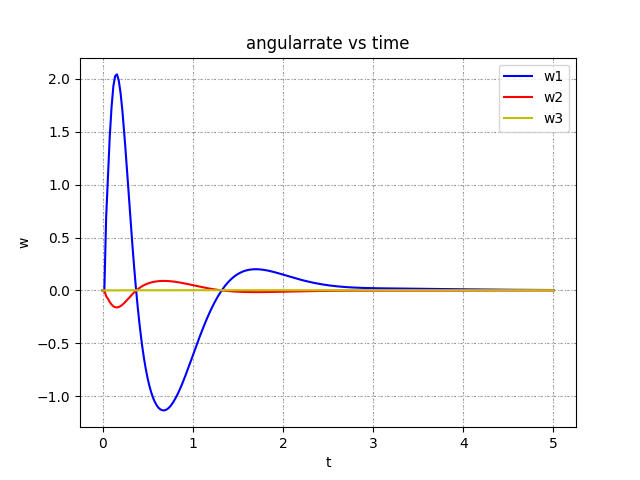
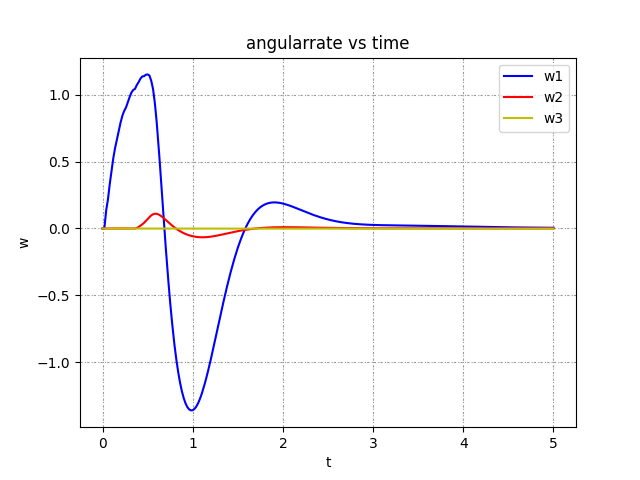
pos_vel input is x[1], not x[0]

diff --git a/gestelt_bringup/src/learning_agent_node.py b/gestelt_bringup/src/learning_agent_node.py
@@ -98,13 +98,14 @@ class LearningAgileAgentNode():
         self.learing_agile_agent.receive_terminal_states(start=self.start_point,end=self.final_point)
 
         # problem definition
-        self.learing_agile_agent.problem_definition(self.drone_quat,gazebo_sim=False)
+        self.learing_agile_agent.problem_definition(self.drone_quat,gazebo_sim=True)
 
         # after receiving the waypoints, start the timer to run the learning agile agent
         pub_freq = 100 # hz
 
+        
         # the traverse time is estimated in 100 hz
-        rospy.Timer(rospy.Duration(1/50), self.gate_state_estimation_timer_callback) 
+        rospy.Timer(rospy.Duration(1/100), self.gate_state_estimation_timer_callback) 
         
         # # the MPC problem is solved in 40 hz
         rospy.Timer(rospy.Duration(1/pub_freq), self.setpoint_timer_callback)
@@ -114,6 +115,7 @@ class LearningAgileAgentNode():
         """
         this function estimate the gate future state, is called in 100 hz
         """
+        
         self.drone_state=np.concatenate((self.drone_pos,self.drone_vel,self.drone_quat,self.drone_ang_vel),axis=0).tolist()
         traverse_time, gate_centroid=self.learing_agile_agent.gate_state_estimation(self.drone_state)
         
@@ -158,12 +160,6 @@ class LearningAgileAgentNode():
         pos_vel_setpoint.velocity.y = pos_vel_att_cmd[4]
         pos_vel_setpoint.velocity.z = pos_vel_att_cmd[5]
 
-         # attitude setpoint
-        # attitude_setpoint=Quaternion()
-        # attitude_setpoint.w=pos_vel_att_cmd[6]
-        # attitude_setpoint.x=pos_vel_att_cmd[7]
-        # attitude_setpoint.y=pos_vel_att_cmd[8]
-        # attitude_setpoint.z=pos_vel_att_cmd[9]
 
         # body rate setpoint
         body_rate_setpoint=Vector3()
@@ -180,12 +176,10 @@ class LearningAgileAgentNode():
     
         mavros_attitude_setpoint.thrust = sum(thrust_vector)
         mavros_attitude_setpoint.body_rate=body_rate_setpoint
-        # mavros_attitude_setpoint.orientation=attitude_setpoint
-        
 
-        # publish the setpoint
-        self.next_setpoint_pub.publish(pos_vel_setpoint)
         
+        # publish the setpoint（PV or attitude)
+        self.next_setpoint_pub.publish(pos_vel_setpoint)
         # self.next_attitude_setpoint_pub.publish(mavros_attitude_setpoint)
 
 
@@ -213,18 +207,8 @@ class LearningAgileAgentNode():
         drone_frame_id = msg.header.frame_id
 
         self.drone_pos = np.array([msg.pose.position.x,msg.pose.position.y,msg.pose.position.z])
+        self.drone_quat = np.array([msg.pose.orientation.w,msg.pose.orientation.x,msg.pose.orientation.y,msg.pose.orientation.z])
 
-        drone_quat_origin = np.array([msg.pose.orientation.w,msg.pose.orientation.x,msg.pose.orientation.y,msg.pose.orientation.z])
-        drone_quat_origin_euler = tf.transformations.euler_from_quaternion(drone_quat_origin.tolist())
-        drone_quat_origin_yaw = drone_quat_origin_euler[2]
-        # print('drone_quat_origin_yaw=',drone_quat_origin_yaw)
-
-
-        # TODO ONLY FOR TEST
-        drone_quat_current_yaw = drone_quat_origin_yaw+pi/2
-        # print('drone_quat_current_yaw=',drone_quat_current_yaw)
-        # self.drone_quat = tf.transformations.quaternion_from_euler(drone_quat_origin_euler[0],drone_quat_origin_euler[1],drone_quat_current_yaw)
-        self.drone_quat=np.array([1,0,0,0])
         # TODO ONLY FOR TEST
         self.drone_pos[1]=self.drone_pos[1]+1.8 
         
@@ -259,28 +243,3 @@ if __name__ == '__main__':
     main()
     
 
-   
-
-
-
-        #  # attitude setpoint
-        # attitude_setpoint=Quaternion()
-        # attitude_setpoint.w=pos_vel_att_cmd[6]
-        # attitude_setpoint.x=pos_vel_att_cmd[7]
-        # attitude_setpoint.y=pos_vel_att_cmd[8]
-        # attitude_setpoint.z=pos_vel_att_cmd[9]
-
-        # # body rate setpoint
-        # body_rate_setpoint=Vector3()
-        # body_rate_setpoint.x=pos_vel_att_cmd[10]
-        # body_rate_setpoint.y=pos_vel_att_cmd[11]
-        # body_rate_setpoint.z=pos_vel_att_cmd[12]
-
-        # # assemble the setpoint
-        # mavros_attitude_setpoint=AttitudeTarget()
-        # mavros_attitude_setpoint.header.stamp = rospy.Time.now()
-        # mavros_attitude_setpoint.header.frame_id = "world"
-        # mavros_attitude_setpoint.type_mask = AttitudeTarget.IGNORE_THRUST
-        
-        # mavros_attitude_setpoint.orientation=attitude_setpoint
-        # mavros_attitude_setpoint.body_rate=body_rate_setpoint

diff --git a/gestelt_bringup/src/Learning_Agile/learning_agile_agent.py b/gestelt_bringup/src/Learning_Agile/learning_agile_agent.py
@@ -76,7 +76,7 @@ class LearningAgileAgent():
         self.env_inputs = nn_sample()
         # self.env_inputs[8]=pi/2 # gate pitch angle
         # drone state
-        self.state = np.zeros(13)
+        self.state = np.zeros(13).tolist()
 
         # moving gate
         self.moving_gate = MovingGate(self.env_inputs)
@@ -143,11 +143,13 @@ class LearningAgileAgent():
     
     def gate_state_estimation(self,gazebo_model_state):
         # run in 100 hz
+        self.state=gazebo_model_state
+
         if self.i <= 500:
     
             self.gate_n = gate(self.gate_move[self.i])
             
-            self.state=gazebo_model_state
+            
         
             self.state_n = [self.state]
 
@@ -172,11 +174,13 @@ class LearningAgileAgent():
             # print('rotation matrix I_G=',gate_n.I_G)
                
         self.i += 1
+        t=0
         return t, self.gate_n.centroid
 
     def solve_problem_gazebo(self,drone_state):
         t_ = time.time()
         
+        # decision variable is updated in 100 hz
         self.state=drone_state
         solver_inputs = np.zeros(18)
         solver_inputs[16] = magni(self.gate_n.gate_point[0,:]-self.gate_n.gate_point[1,:]) # gate width
@@ -192,9 +196,10 @@ class LearningAgileAgent():
         
         cmd_solution = self.quad1.get_input(solver_inputs[0:13],self.u,out[0:3],out[3:6],out[6])
         
-        self.pos_vel_att_cmd=cmd_solution['state_traj_opt'][0,:]
+        self.pos_vel_att_cmd=cmd_solution['state_traj_opt'][1,:]
         self.u=cmd_solution['control_traj_opt'][0,:].tolist()
         
+
                 
         # self.state = np.array(self.quad1.uav1.dyn_fn(self.state, self.u)).reshape(13) # Yixiao's simulation environment ('uav1.dyn_fn'), replaced by pybullet
         self.state_n = np.concatenate((self.state_n,[self.state]),axis = 0)
@@ -302,7 +307,7 @@ def main():
     learing_agile_agent=LearningAgileAgent()
     # receive the start and end point, and the initial gate point, from ROS side
     # rewrite the inputs
-    learing_agile_agent.receive_terminal_states(start=np.array([0,1.8,1]),end=np.array([0,-1.8,1]))
+    learing_agile_agent.receive_terminal_states(start=np.array([0,1.8,10]),end=np.array([0,-1.8,1]))
 
     # problem definition
     learing_agile_agent.problem_definition()

diff --git a/trajectory_server/src/traj_server.cpp b/trajectory_server/src/traj_server.cpp
@@ -15,6 +15,8 @@ void TrajServer::init(ros::NodeHandle& nh)
   // Operational params
   nh.param("traj_server/takeoff_height", takeoff_height_, 1.0);
   nh.param("traj_server/drone_yaw", last_mission_yaw_, -M_PI/2);
+  nh.param("traj_server/takeoff_ramptime", takeoff_ramptime_, 0.0);
+
   nh.param("traj_server/planner_heartbeat_timeout", planner_heartbeat_timeout_, 0.5);
   nh.param("traj_server/ignore_planner_heartbeat", ignore_heartbeat_, false);
 
@@ -555,7 +557,7 @@ void TrajServer::execTakeOff()
  
     // z axis takeoff ramp
     if (takeoff_ramp_(2) < takeoff_height_){
-      takeoff_ramp_(2) += pub_cmd_freq_/(pub_cmd_freq_*200); // 200/  25Hz, then the addition is 0.01m, for 0.04s
+      takeoff_ramp_(2) += pub_cmd_freq_/(pub_cmd_freq_*20); // 200/  25Hz, then the addition is 0.01m, for 0.04s
     }
     else {
       takeoff_ramp_(2) = last_mission_pos_(2);

diff --git a/gestelt_bringup/src/Learning_Agile/quad_policy.py b/gestelt_bringup/src/Learning_Agile/quad_policy.py
@@ -238,18 +238,10 @@ class run_quad:
         
   
         current_state_control = ini_state+Ulast
-        t_ = time.time()
+       
         # self.sol1 = self.uavoc1.ocSolver(current_state_control=current_state_control)
         self.sol1 = self.uavoc1.AcadosOcSolver(current_state_control=current_state_control,goal_pos=self.goal_pos)
         
-        print('solving time for solver=',time.time()-t_)
-        # obtain the control command
-        control = self.sol1['control_traj_opt'][0,:]
-
-        # for RPT control
-        pos_vel_cmd= self.sol1['state_traj_opt'][0,:]
-        print("pos_vel_cmd: ", pos_vel_cmd)
-        print("control: ", control)
         # return control, pos_vel_cmd
         return self.sol1
 

diff --git a/trajectory_server/include/traj_server/traj_server.h b/trajectory_server/include/traj_server/traj_server.h
@@ -423,6 +423,7 @@ private: // Member variables
   Eigen::Vector3d last_mission_acc_{0.0, 0.0, 0.0}, last_mission_jerk_{0.0, 0.0, 0.0};
   // Last received mission yaw and yaw rate
   double last_mission_yaw_{0.0}, last_mission_yaw_dot_{0.0};
+  double takeoff_ramptime_;
 
   // Pair of error value and timestamp (in seconds)
   std::deque<std::pair<double, double>> err_xy_vec;

diff --git a/gestelt_bringup/src/Learning_Agile/c_generated_code/ACADOS_model_cost/ACADOS_model_cost_ext_cost_0_fun.c b/gestelt_bringup/src/Learning_Agile/c_generated_code/ACADOS_model_cost/ACADOS_model_cost_ext_cost_0_fun.c
@@ -67,7 +67,7 @@ static int casadi_f0(const casadi_real** arg, casadi_real** res, casadi_int* iw,
   a2=casadi_sq(a2);
   a1=(a1+a2);
   a2=arg[0]? arg[0][2] : 0;
-  a3=1.;
+  a3=1.3999999999999999e+00;
   a2=(a2-a3);
   a2=casadi_sq(a2);
   a1=(a1+a2);

diff --git a/gestelt_bringup/src/Learning_Agile/c_generated_code/ACADOS_model_cost/ACADOS_model_cost_ext_cost_0_fun_jac.c b/gestelt_bringup/src/Learning_Agile/c_generated_code/ACADOS_model_cost/ACADOS_model_cost_ext_cost_0_fun_jac.c
@@ -67,7 +67,7 @@ static int casadi_f0(const casadi_real** arg, casadi_real** res, casadi_int* iw,
   a4=casadi_sq(a3);
   a2=(a2+a4);
   a4=arg[0]? arg[0][2] : 0;
-  a5=1.;
+  a5=1.3999999999999999e+00;
   a4=(a4-a5);
   a5=casadi_sq(a4);
   a2=(a2+a5);

diff --git a/gestelt_bringup/src/Learning_Agile/c_generated_code/ACADOS_model_cost/ACADOS_model_cost_ext_cost_0_fun_jac_hess.c b/gestelt_bringup/src/Learning_Agile/c_generated_code/ACADOS_model_cost/ACADOS_model_cost_ext_cost_0_fun_jac_hess.c
@@ -71,7 +71,7 @@ static int casadi_f0(const casadi_real** arg, casadi_real** res, casadi_int* iw,
   a4=casadi_sq(a3);
   a2=(a2+a4);
   a4=arg[0]? arg[0][2] : 0;
-  a5=1.;
+  a5=1.3999999999999999e+00;
   a4=(a4-a5);
   a5=casadi_sq(a4);
   a2=(a2+a5);

diff --git a/gestelt_bringup/src/Learning_Agile/c_generated_code/ACADOS_model_cost/ACADOS_model_cost_ext_cost_e_fun.c b/gestelt_bringup/src/Learning_Agile/c_generated_code/ACADOS_model_cost/ACADOS_model_cost_ext_cost_e_fun.c
@@ -65,7 +65,7 @@ static int casadi_f0(const casadi_real** arg, casadi_real** res, casadi_int* iw,
   a2=casadi_sq(a2);
   a1=(a1+a2);
   a2=arg[0]? arg[0][2] : 0;
-  a3=1.;
+  a3=1.3999999999999999e+00;
   a2=(a2-a3);
   a2=casadi_sq(a2);
   a1=(a1+a2);

diff --git a/gestelt_bringup/src/Learning_Agile/c_generated_code/ACADOS_model_cost/ACADOS_model_cost_ext_cost_e_fun_jac.c b/gestelt_bringup/src/Learning_Agile/c_generated_code/ACADOS_model_cost/ACADOS_model_cost_ext_cost_e_fun_jac.c
@@ -65,7 +65,7 @@ static int casadi_f0(const casadi_real** arg, casadi_real** res, casadi_int* iw,
   a4=casadi_sq(a3);
   a2=(a2+a4);
   a4=arg[0]? arg[0][2] : 0;
-  a5=1.;
+  a5=1.3999999999999999e+00;
   a4=(a4-a5);
   a5=casadi_sq(a4);
   a2=(a2+a5);

diff --git a/gestelt_bringup/src/Learning_Agile/c_generated_code/ACADOS_model_cost/ACADOS_model_cost_ext_cost_e_fun_jac_hess.c b/gestelt_bringup/src/Learning_Agile/c_generated_code/ACADOS_model_cost/ACADOS_model_cost_ext_cost_e_fun_jac_hess.c
@@ -69,7 +69,7 @@ static int casadi_f0(const casadi_real** arg, casadi_real** res, casadi_int* iw,
   a4=casadi_sq(a3);
   a2=(a2+a4);
   a4=arg[0]? arg[0][2] : 0;
-  a5=1.;
+  a5=1.3999999999999999e+00;
   a4=(a4-a5);
   a5=casadi_sq(a4);
   a2=(a2+a5);

diff --git a/gestelt_bringup/src/Learning_Agile/c_generated_code/ACADOS_model_cost/ACADOS_model_cost_ext_cost_fun.c b/gestelt_bringup/src/Learning_Agile/c_generated_code/ACADOS_model_cost/ACADOS_model_cost_ext_cost_fun.c
@@ -67,7 +67,7 @@ static int casadi_f0(const casadi_real** arg, casadi_real** res, casadi_int* iw,
   a2=casadi_sq(a2);
   a1=(a1+a2);
   a2=arg[0]? arg[0][2] : 0;
-  a3=1.;
+  a3=1.3999999999999999e+00;
   a2=(a2-a3);
   a2=casadi_sq(a2);
   a1=(a1+a2);
